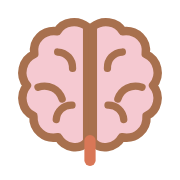
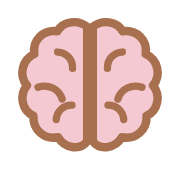
Squidgy eases its pink, the brain drops its stem, the drop box says what it is for
The Squidgy page goes from a 60% wash of #F5C9D1 to 40% (#fbe9ed), and the
sidebar from the full pink to 80% (#f7d4da). The door panel follows the page.
The lightest label holds 5.72:1 on the new page.

The brain icon loses its orange stem and keeps two colours, pink and brown,
recentred once the stem was gone.

The drop's content box read "What it says. A link on its own is read for you."
It now says what goes in it: "Paste the text here, or add a document. Leave it
empty when the source is a link."

Claude-Session: https://claude.ai/code/session_01NRWPtT3uQhafrf1yBXPVRY

Changed region(s): [[0.4444, 0.75, 0.5556, 0.9444]]

diff --git a/app/chat.html b/app/chat.html
@@ -43,7 +43,7 @@
      THE SQUIDGY SPACE
 
      Brown #A8704E and pink #F5C9D1, on every surface rather than the accent
-     alone. The sidebar is the pink itself, the page a 60% wash of it, cards stay
+     alone. The sidebar is an 80% wash of the pink, the page a 40% one, cards stay
      white so what you read keeps its contrast, and the text runs in browns
      instead of greys.
 
@@ -56,9 +56,9 @@
      ====================================================================== */
   :root[data-space="squidgy"]{
     --mark:url("/brand/squidgy-mark.png");
-    --bg:#f9dfe4; --surface:#ffffff; --surface-2:#F5C9D1; --surface-3:#ecb6c1;
+    --bg:#fbe9ed; --surface:#ffffff; --surface-2:#f7d4da; --surface-3:#efc0c9;
     --ink:#2a1810; --ink-2:#4b3024; --ink-3:#6b4234; --ink-4:#7c5243;
-    --line:#efc4cd; --line-2:#dca2ae;
+    --line:#f1cfd6; --line-2:#dfa9b4;
     --accent:#7a4e36; --accent-fill:#A8704E; --accent-solid:#9c6849; --accent-on:#ffffff;
     --accent-soft:rgba(168,112,78,.12); --accent-line:rgba(168,112,78,.40);
     --shadow:0 1px 2px rgba(122,78,54,.08), 0 1px 8px rgba(122,78,54,.06);
@@ -1218,7 +1218,7 @@ function renderComposer(){
   const drop = S.mode==="drop";
   $("srcLine").hidden = !drop;
   $("input").placeholder = drop
-    ? "What it says. A link on its own is read for you."
+    ? "Paste the text here, or add a document. Leave it empty when the source is a link."
     : S.scope==="all" ? "Ask anything your brains have read."
                       : "Ask " + (S.brains.find(b=>b.slug===S.scope)?.name || "this brain") + ".";
   $("levelWrap").hidden = drop;

diff --git a/app/index.html b/app/index.html
@@ -37,7 +37,7 @@
   }
   .door.squidgy{
     --tint:#A8704E; --tint-btn:#9c6849; --tint-deep:#8b5d41; --tint-on:#ffffff;
-    --tint-wash:#f9dfe4;
+    --tint-wash:#fbe9ed;
   }
 
   /* ---------------------------------------------------------------- frame */
